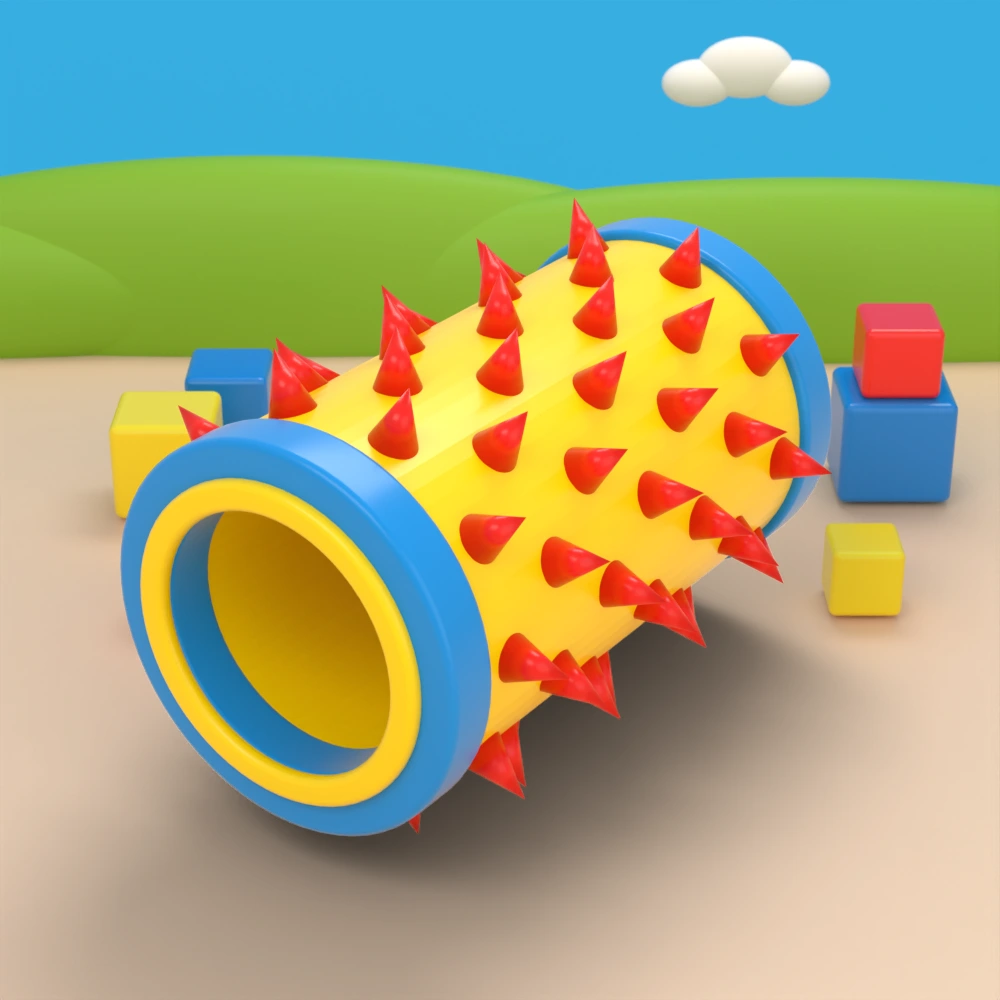
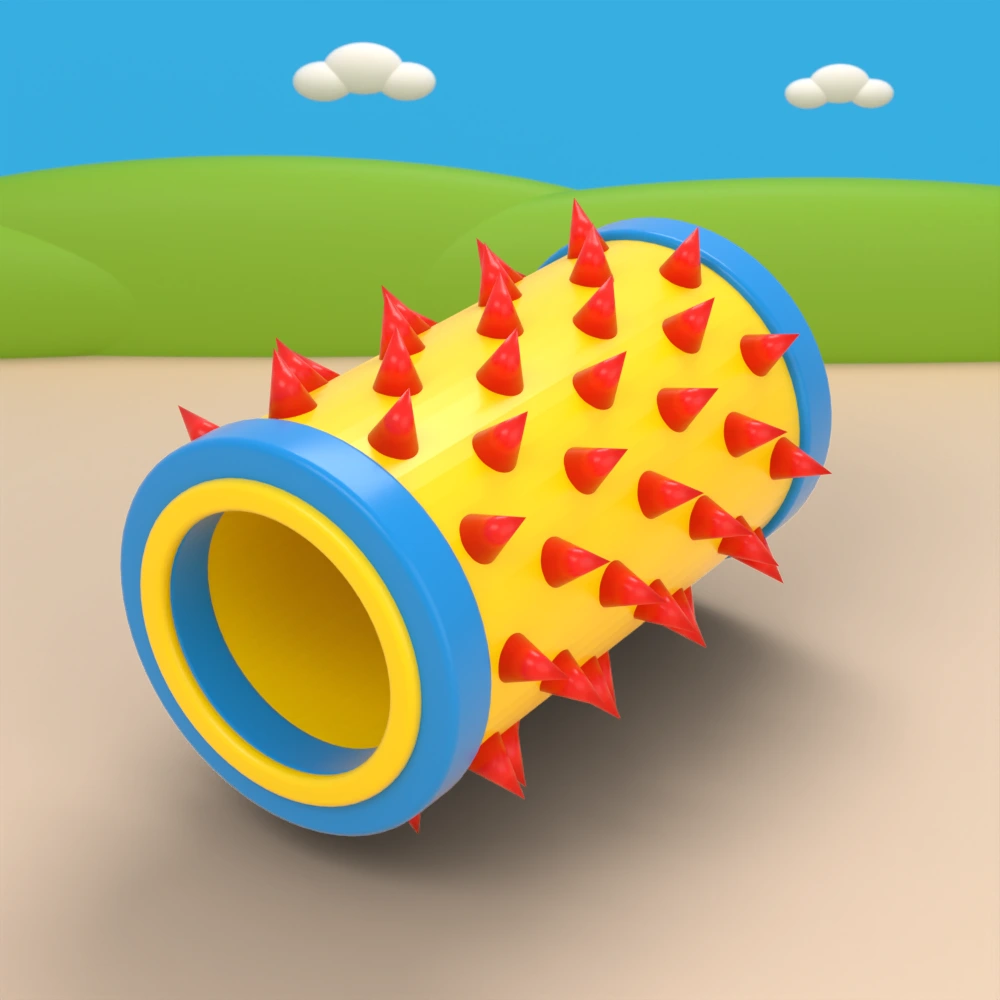
Simplify gallery scenery and refine page typography

diff --git a/src/style.css b/src/style.css
@@ -3,15 +3,15 @@
 :root{font-family:'Albert Sans Variable',Arial,sans-serif;color:oklch(28% .04 25);background:oklch(97% .018 88);font-synthesis:none;--red:#b30100;--dark-red:#4e0302;--paper:#f7f4e9;--yellow:#ffee38;--blue:#005cb3;--ink:#3d2220;--line:color-mix(in srgb,var(--dark-red) 18%,transparent)}
 *{box-sizing:border-box}html{scroll-behavior:smooth;scroll-padding-top:24px}body{margin:0}button,a,input{-webkit-tap-highlight-color:transparent}button,input{font:inherit}button,a{touch-action:manipulation}button{cursor:pointer}a{color:inherit;text-decoration:none}button{color:inherit}button:focus-visible,a:focus-visible,input:focus-visible,summary:focus-visible{outline:3px solid var(--blue);outline-offset:6px}::selection{background:var(--yellow);color:var(--dark-red)}img{max-width:100%;display:block}.sr-only{position:absolute;width:1px;height:1px;padding:0;margin:-1px;overflow:hidden;clip:rect(0,0,0,0);white-space:nowrap;border:0}.skip-link{position:fixed;left:24px;top:16px;z-index:100;background:var(--red);color:var(--paper);padding:14px 20px;transform:translateY(-150%)}.skip-link:focus{transform:translateY(0)}
 .site-header{display:grid;grid-template-columns:90px 1fr auto;align-items:center;gap:30px;margin:0 3.3vw;padding:26px 0 20px;border-bottom:1px solid var(--line)}.brand{display:block;width:78px;height:78px}.brand img,.footer-brand img{filter:invert(10%) sepia(99%) saturate(4886%) hue-rotate(360deg) brightness(77%) contrast(119%);width:100%;height:100%;object-fit:contain}.header-note{font-size:14px;line-height:1.2;letter-spacing:-.02em}.site-header nav{display:flex;gap:42px;font-size:15px;letter-spacing:-.025em}.site-header nav a{padding:8px 0;text-decoration-thickness:1px;text-underline-offset:5px}.site-header nav a:hover{text-decoration:underline}
-.hero{padding:0 3.3vw}.hero-heading{display:flex;align-items:flex-end;justify-content:space-between;gap:40px;padding:46px 0 45px}.hero h1{font-size:clamp(68px,8.6vw,160px);font-weight:650;letter-spacing:-.075em;line-height:.86;color:var(--red);margin:0}.hero h1 span{display:block}.hero h1 span:last-child{padding-left:15.5vw}.hero-aside{display:flex;align-items:flex-end;gap:60px;padding-bottom:6px;flex-shrink:0}.hero-aside p{font-size:17px;line-height:1.32;letter-spacing:-.025em;margin:0 0 2px}.explore-link{min-height:44px;display:flex;align-items:center;font-size:15px;text-decoration:underline;text-decoration-thickness:1px;text-underline-offset:6px;transition:color .2s}.explore-link:hover{color:var(--red)}.hero-figure{margin:0}.hero-image-wrap{overflow:hidden;background:#51b8dd;aspect-ratio:1672/941}.hero-image{width:100%;height:100%;object-fit:cover;transform-origin:50% 50%}.hero figcaption{display:flex;justify-content:space-between;gap:20px;padding:15px 0 20px;font-size:12px;letter-spacing:.015em}.hero figcaption>span:first-child{font-size:10px;font-weight:700;letter-spacing:.07em}.caption-end{text-align:right}
-.collection{padding:125px 3.3vw 100px}.section-intro{display:grid;grid-template-columns:1fr 2fr;gap:30px;align-items:start;margin-bottom:66px}.section-number{font-size:11px;letter-spacing:.07em;padding-top:11px;font-weight:600}.section-intro>div{display:grid;grid-template-columns:1.2fr 1fr;gap:48px}.section-intro h2{font-size:clamp(36px,4.4vw,76px);line-height:.98;letter-spacing:-.06em;font-weight:550;margin:0}.section-intro p{font-size:19px;line-height:1.4;letter-spacing:-.03em;max-width:300px;margin:7px 0 0}.collection-toolbar{border-bottom:1px solid var(--line);display:flex;justify-content:space-between;align-items:center;gap:20px;padding-bottom:15px}.filters{display:flex;gap:30px}.filter{background:none;border:0;padding:8px 0;font-size:14px;line-height:1.3}.filter{color:color-mix(in srgb,var(--ink) 58%,transparent);position:relative}.filter::after{content:'';height:2px;background:var(--red);position:absolute;bottom:-16px;left:0;right:0;transform:scaleX(0);transform-origin:left;transition:transform .2s}.filter.active{color:var(--red)}.filter.active::after{transform:scaleX(1)}.filter span{font-size:10px;vertical-align:super;padding-left:4px}.view-hint{display:flex;gap:10px;margin:15px 0 30px;font-size:12px;color:color-mix(in srgb,var(--ink) 72%,transparent)}.view-hint>span{font-size:16px;line-height:14px}.product-grid{display:grid;grid-template-columns:repeat(3,minmax(0,1fr));gap:50px 22px}.product-card{min-width:0}.product-card[hidden]{display:none}.object-stage{position:relative;aspect-ratio:1;background:#eeeadd;overflow:hidden;isolation:isolate}.product-card:nth-child(6n+2) .object-stage{background:#e4e9e4}.product-card:nth-child(6n+3) .object-stage{background:#efe0d6}.product-card:nth-child(6n+4) .object-stage{background:#e7e5e9}.product-card:nth-child(6n+5) .object-stage{background:#ece7d0}.product-card:nth-child(6n+6) .object-stage{background:#e2e7ec}.object-stage img{position:absolute;inset:0;width:100%;height:100%;object-fit:cover;opacity:0;pointer-events:none}.object-stage img.is-active{opacity:1}.piece-number{position:absolute;top:16px;left:17px;font-size:10px;letter-spacing:.04em;color:color-mix(in srgb,var(--ink) 60%,transparent);z-index:3}.object-turn-label{position:absolute;bottom:16px;right:17px;font-size:10px;display:flex;align-items:center;gap:6px;opacity:0;transform:translateY(3px);transition:opacity .2s,transform .2s;pointer-events:none;z-index:3}.object-stage:hover .object-turn-label,.product-card:focus-within .object-turn-label{opacity:.8;transform:none}.piece-details{border-bottom:1px solid var(--line)}.piece-details summary{display:flex;align-items:center;justify-content:space-between;gap:12px;cursor:pointer;list-style:none;padding:2px 0 14px}.piece-details summary::-webkit-details-marker{display:none}.piece-title{font-size:20px;font-weight:500;letter-spacing:-.04em}.piece-category{display:block;font-size:11px;font-weight:400;letter-spacing:0;margin-top:5px;color:color-mix(in srgb,var(--ink) 65%,transparent)}.detail-plus{font-size:24px;font-weight:300;transition:transform .2s}.piece-details[open] .detail-plus{transform:rotate(45deg)}.piece-description{padding:3px 0 20px;font-size:15px;line-height:1.45;letter-spacing:-.01em;max-width:35ch}.piece-description p{margin:0 0 10px}.piece-description .piece-medium{font-size:11px;color:color-mix(in srgb,var(--ink) 65%,transparent);margin-bottom:0}.collection-end{display:flex;align-items:center;justify-content:space-between;margin-top:60px;padding:24px 0 0;font-size:16px;letter-spacing:-.025em}.collection-error{padding:50px 0}.collection-error button,.collection-error a{color:var(--red);background:none;border:0;text-decoration:underline;padding:0}
-.idea{background:var(--blue);color:var(--paper);padding:35px 3.3vw 85px;overflow:hidden}.idea-top{display:flex;justify-content:space-between;font-size:11px;letter-spacing:.03em}.idea-top>span:first-child{letter-spacing:.07em}.idea-title-wrap{position:relative;padding-top:75px}.idea h2{font-size:clamp(60px,9.3vw,165px);line-height:.9;letter-spacing:-.07em;font-weight:550;margin:0;color:var(--yellow)}.idea h2 span{display:block;margin-left:17vw}.idea-spark{position:absolute;right:3.5vw;top:65px;font-size:clamp(90px,15vw,260px);line-height:1;color:var(--yellow)}.idea-bottom{display:grid;grid-template-columns:1fr 1fr;gap:12vw;padding-top:90px}.idea-question{font-size:clamp(42px,5.3vw,90px);line-height:.98;letter-spacing:-.06em;margin:0;font-weight:500}.idea-copy{max-width:540px;font-size:20px;line-height:1.4;letter-spacing:-.025em}.idea-copy p{margin:0 0 22px}.idea-copy .idea-final{margin-top:35px;color:var(--yellow)}.adult-note{display:block;font-size:11px;letter-spacing:0;margin-top:40px;opacity:.8}
-.inquiries{padding:95px 3.3vw 105px;background:var(--yellow);color:var(--dark-red)}.inquiry-top{display:flex;justify-content:space-between;align-items:start}.inquiry-top>span{font-size:11px;letter-spacing:.07em}.inquiry-top p{font-size:15px;line-height:1.35;letter-spacing:-.02em;margin:0}.inquiry-link{display:flex;align-items:center;justify-content:space-between;margin:65px 0 28px;gap:20px}.inquiry-link h2{font-size:clamp(60px,8.5vw,145px);font-weight:550;letter-spacing:-.07em;line-height:.9;margin:0}.inquiry-link:hover h2{text-decoration:underline;text-decoration-thickness:.035em;text-underline-offset:.09em}.email-link{display:inline-flex;gap:40px;padding-bottom:8px;border-bottom:1px solid var(--dark-red);font-size:clamp(16px,2.1vw,31px);letter-spacing:-.04em}
-footer{display:grid;grid-template-columns:1fr 1fr 1fr;align-items:end;gap:30px;padding:55px 3.3vw 32px}.footer-brand{width:122px;height:122px}footer>p{font-size:26px;line-height:1.12;letter-spacing:-.04em;margin:0 0 3px}.footer-meta{display:flex;justify-content:space-between;gap:30px;font-size:11px;align-self:end}.footer-meta a{white-space:nowrap}.footer-meta a:hover{text-decoration:underline}
+.hero{padding:0 3.3vw}.hero-heading{display:flex;align-items:flex-end;justify-content:space-between;gap:40px;padding:46px 0 45px}.hero h1{font-size:clamp(68px,8.6vw,160px);font-weight:650;letter-spacing:-.075em;line-height:.86;color:var(--blue);margin:0}.hero h1 span{display:block}.hero h1 span:last-child{padding-left:15.5vw}.hero-aside{padding-bottom:6px;flex-shrink:0}.hero-aside p{font-size:17px;line-height:1.32;letter-spacing:-.025em;margin:0 0 2px}.hero-figure{margin:0}.hero-image-wrap{overflow:hidden;background:#51b8dd;aspect-ratio:1672/941}.hero-image{width:100%;height:100%;object-fit:cover;transform-origin:50% 50%}.hero figcaption{display:flex;justify-content:space-between;gap:20px;padding:15px 0 20px;font-size:12px;letter-spacing:.015em}.hero figcaption>span:first-child{font-size:10px;font-weight:700;letter-spacing:.07em}.caption-end{text-align:right}
+.collection{padding:125px 3.3vw 100px}.section-intro{display:grid;grid-template-columns:1fr 2fr;gap:30px;align-items:start;margin-bottom:66px}.section-number{font-size:11px;letter-spacing:.07em;padding-top:11px;font-weight:600}.section-intro>div{display:grid;grid-template-columns:1.2fr 1fr;gap:48px}.section-intro h2{font-size:clamp(36px,4.4vw,76px);line-height:.98;letter-spacing:-.06em;font-weight:550;margin:0}.section-intro p{font-size:19px;line-height:1.4;letter-spacing:-.03em;max-width:300px;margin:7px 0 0}.collection-toolbar{border-bottom:1px solid var(--line);display:flex;justify-content:space-between;align-items:center;gap:20px;padding-bottom:15px}.filters{display:flex;gap:30px}.filter{background:none;border:0;padding:8px 0;font-size:14px;line-height:1.3}.filter{color:color-mix(in srgb,var(--ink) 58%,transparent);position:relative}.filter::after{content:'';height:2px;background:var(--red);position:absolute;bottom:-16px;left:0;right:0;transform:scaleX(0);transform-origin:left;transition:transform .2s}.filter.active{color:var(--red)}.filter.active::after{transform:scaleX(1)}.filter span{font-size:10px;vertical-align:super;padding-left:4px}.view-hint{display:flex;gap:10px;margin:15px 0 30px;font-size:12px;color:color-mix(in srgb,var(--ink) 72%,transparent)}.view-hint>span{font-size:16px;line-height:14px}.product-grid{display:grid;grid-template-columns:repeat(3,minmax(0,1fr));gap:50px 22px}.product-card{min-width:0}.product-card[hidden]{display:none}.object-stage{position:relative;aspect-ratio:1;background:#eeeadd;overflow:hidden;isolation:isolate}.product-card:nth-child(6n+2) .object-stage{background:#e4e9e4}.product-card:nth-child(6n+3) .object-stage{background:#efe0d6}.product-card:nth-child(6n+4) .object-stage{background:#e7e5e9}.product-card:nth-child(6n+5) .object-stage{background:#ece7d0}.product-card:nth-child(6n+6) .object-stage{background:#e2e7ec}.object-stage img{position:absolute;inset:0;width:100%;height:100%;object-fit:cover;opacity:0;pointer-events:none}.object-stage img.is-active{opacity:1}.piece-title{font-size:20px;font-weight:500;letter-spacing:-.04em;margin:15px 0 4px}.collection-error{padding:50px 0}.collection-error button,.collection-error a{color:var(--red);background:none;border:0;text-decoration:underline;padding:0}
+.idea{background:var(--blue);color:var(--paper);padding:35px 3.3vw 85px;overflow:hidden}.idea-title-wrap{position:relative;padding-top:75px}.idea h2{font-size:clamp(60px,9.3vw,165px);line-height:.9;letter-spacing:-.07em;font-weight:550;margin:0;color:var(--yellow)}.idea h2 span{display:block;margin-left:17vw}.idea-spark{position:absolute;right:3.5vw;top:65px;font-size:clamp(90px,15vw,260px);line-height:1;color:var(--yellow)}.idea-bottom{display:grid;grid-template-columns:1fr 1fr;gap:12vw;padding-top:90px}.idea-question{font-size:clamp(42px,5.3vw,90px);line-height:.98;letter-spacing:-.06em;margin:0;font-weight:500}.idea-copy{max-width:540px;font-size:20px;line-height:1.4;letter-spacing:-.025em}.idea-copy p{margin:0 0 22px}.idea-copy .idea-final{margin-top:35px;color:var(--yellow)}.adult-note{display:block;font-size:inherit;letter-spacing:0;margin-top:40px;opacity:.8}
+.inquiries{margin:clamp(28px,3.3vw,64px) 3.3vw;padding:clamp(44px,6.5vw,105px) clamp(28px,4.7vw,90px);border-radius:32px;background:var(--yellow);color:var(--dark-red)}.inquiry-link{display:block;margin:0 0 40px}.inquiry-link h2{font-size:clamp(35px,6.7vw,112px);font-weight:550;letter-spacing:-.06em;line-height:1;margin:0}.inquiry-link:hover h2{text-decoration:underline;text-decoration-thickness:.035em;text-underline-offset:.09em}.email-link{display:inline-flex;gap:40px;padding-bottom:8px;border-bottom:1px solid var(--dark-red);font-size:clamp(16px,2.1vw,31px);letter-spacing:-.04em}
+footer{display:grid;grid-template-columns:1fr 1fr 1fr;align-items:end;gap:30px;padding:55px 3.3vw 32px}.footer-brand{width:122px;height:122px}footer>p{font-size:26px;line-height:1.12;letter-spacing:-.04em;margin:0 0 3px}.footer-meta{display:flex;justify-content:space-between;gap:30px;font-size:11px;align-self:end}
 @media(min-width:1900px){body{max-width:2000px;margin:auto}.hero h1 span:last-child{padding-left:300px}.idea h2 span{margin-left:325px}}
-@media(max-width:1150px){.hero h1{font-size:9.6vw}.hero h1 span:last-child{padding-left:7vw}.hero-aside{gap:25px}.hero-aside p{font-size:14px}.section-intro{grid-template-columns:1fr 2.5fr}.section-intro>div{gap:30px}.section-intro p{font-size:16px}.site-header nav{gap:26px}.product-grid{gap:42px 18px}.footer-meta{flex-direction:column;gap:18px}}
-@media(max-width:760px){.site-header{grid-template-columns:64px 1fr;margin:0 5vw;padding-top:20px;padding-bottom:18px;gap:15px}.brand{width:60px;height:60px}.header-note{display:none}.site-header nav{gap:22px;justify-content:flex-end;font-size:12px}.hero{padding:0 5vw}.hero-heading{padding:42px 0 28px;gap:20px}.hero h1{font-size:12vw;line-height:.9}.hero h1 span:last-child{padding-left:6vw}.hero-aside p{display:none}.explore-link{font-size:13px}.hero-figure .hero-image-wrap{aspect-ratio:1.34}.hero-image{object-position:50% 50%}.hero figcaption{font-size:10px;gap:10px;padding-top:12px}.hero figcaption>span:first-child{font-size:8px}.caption-end{display:none}.collection{padding:75px 5vw 65px}.section-intro{display:block;margin-bottom:38px}.section-number{display:block;padding:0 0 24px;font-size:10px}.section-intro>div{grid-template-columns:1.15fr 1fr;gap:30px}.section-intro h2{font-size:6.3vw}.section-intro p{font-size:14px;line-height:1.35;margin:0}.filters{gap:22px}.filter{font-size:12px}.view-hint{font-size:10px;margin-bottom:24px;line-height:1.35;align-items:center}.product-grid{grid-template-columns:repeat(2,minmax(0,1fr));gap:32px 14px}.piece-number{top:12px;left:12px;font-size:9px}.object-turn-label{display:none}.piece-title{font-size:18px}.piece-category{font-size:10px}.piece-details summary{padding-bottom:12px}.piece-description{font-size:13px}.collection-end{margin-top:40px;font-size:12px;gap:20px}.idea{padding:25px 5vw 55px}.idea-top{font-size:9px}.idea-top>span:last-child{max-width:110px;text-align:right}.idea-title-wrap{padding-top:56px}.idea h2{font-size:11vw}.idea h2 span{margin-left:5vw}.idea-spark{right:0;top:44px;font-size:18vw}.idea-bottom{padding-top:55px;grid-template-columns:.8fr 1.3fr;gap:10vw}.idea-question{font-size:7vw}.idea-copy{font-size:15px}.idea-copy p{margin-bottom:17px}.idea-copy .idea-final{margin-top:25px}.adult-note{font-size:10px;margin-top:28px}.inquiries{padding:55px 5vw 60px}.inquiry-top>span{font-size:10px}.inquiry-top p{font-size:12px}.inquiry-link{margin-top:45px}.inquiry-link h2{font-size:11.2vw}.email-link{font-size:20px;gap:20px}footer{padding:35px 5vw 26px;grid-template-columns:1fr 1fr;gap:25px}.footer-brand{width:90px;height:90px}footer>p{font-size:21px}.footer-meta{grid-column:1/-1;flex-direction:row;font-size:10px;padding-top:10px}}
-@media(max-width:430px){.site-header nav{gap:16px;font-size:11px}.hero-heading{padding-top:34px}.hero h1{font-size:12.3vw}.explore-link{font-size:12px}.hero-aside{padding-bottom:1px}.hero-image-wrap{margin-left:-5vw;margin-right:-5vw;aspect-ratio:1.15!important}.section-intro>div{display:block}.section-intro h2{font-size:10vw}.section-intro p{font-size:15px;max-width:29ch;margin-top:24px}.collection-toolbar{align-items:center;gap:8px}.filters{gap:14px}.filter{font-size:11px}.filter::after{bottom:-16px}.product-grid{grid-template-columns:1fr;gap:33px}.object-stage{aspect-ratio:1}.piece-title{font-size:22px}.piece-category{font-size:11px}.piece-description{font-size:15px}.idea-bottom{display:block}.idea-question{font-size:11vw;margin-bottom:35px}.idea-copy{font-size:17px;max-width:32ch}.idea h2{font-size:11.4vw}.idea-spark{top:48px;right:-1vw;font-size:15vw}.inquiry-top p{font-size:11px}.email-link{font-size:18px}.footer-brand{width:80px;height:80px}footer>p{font-size:19px}}
+@media(max-width:1150px){.hero h1{font-size:9.6vw}.hero h1 span:last-child{padding-left:7vw}.hero-aside p{font-size:14px}.section-intro{grid-template-columns:1fr 2.5fr}.section-intro>div{gap:30px}.section-intro p{font-size:16px}.site-header nav{gap:26px}.product-grid{gap:42px 18px}.footer-meta{flex-direction:column;gap:18px}}
+@media(max-width:760px){.site-header{grid-template-columns:64px 1fr;margin:0 5vw;padding-top:20px;padding-bottom:18px;gap:15px}.brand{width:60px;height:60px}.header-note{display:none}.site-header nav{gap:22px;justify-content:flex-end;font-size:12px}.hero{padding:0 5vw}.hero-heading{padding:42px 0 28px;gap:20px}.hero h1{font-size:12vw;line-height:.9}.hero h1 span:last-child{padding-left:6vw}.hero-aside{display:none}.hero-figure .hero-image-wrap{aspect-ratio:1.34}.hero-image{object-position:50% 50%}.hero figcaption{font-size:10px;gap:10px;padding-top:12px}.hero figcaption>span:first-child{font-size:8px}.caption-end{display:none}.collection{padding:75px 5vw 65px}.section-intro{display:block;margin-bottom:38px}.section-number{display:block;padding:0 0 24px;font-size:10px}.section-intro>div{grid-template-columns:1.15fr 1fr;gap:30px}.section-intro h2{font-size:6.3vw}.section-intro p{font-size:14px;line-height:1.35;margin:0}.filters{gap:22px}.filter{font-size:12px}.view-hint{font-size:10px;margin-bottom:24px;line-height:1.35;align-items:center}.product-grid{grid-template-columns:repeat(2,minmax(0,1fr));gap:32px 14px}.piece-title{font-size:18px}.idea{padding:25px 5vw 55px}.idea-title-wrap{padding-top:56px}.idea h2{font-size:11vw}.idea h2 span{margin-left:5vw}.idea-spark{right:0;top:44px;font-size:18vw}.idea-bottom{padding-top:55px;grid-template-columns:.8fr 1.3fr;gap:10vw}.idea-question{font-size:7vw}.idea-copy{font-size:15px}.idea-copy p{margin-bottom:17px}.idea-copy .idea-final{margin-top:25px}.adult-note{margin-top:28px}.inquiries{margin:5vw;padding:44px 24px;border-radius:20px}.inquiry-link{margin:0 0 28px}.contact-break{display:none}.email-link{font-size:20px;gap:20px}footer{padding:35px 5vw 26px;grid-template-columns:1fr 1fr;gap:25px}.footer-brand{width:90px;height:90px}footer>p{font-size:21px}.footer-meta{grid-column:1/-1;flex-direction:row;font-size:10px;padding-top:10px}}
+@media(max-width:430px){.site-header nav{gap:16px;font-size:11px}.hero-heading{padding-top:34px}.hero h1{font-size:12.3vw}.hero-image-wrap{margin-left:-5vw;margin-right:-5vw;aspect-ratio:1.15!important}.section-intro>div{display:block}.section-intro h2{font-size:10vw}.section-intro p{font-size:15px;max-width:29ch;margin-top:24px}.collection-toolbar{align-items:center;gap:8px}.filters{gap:14px}.filter{font-size:11px}.filter::after{bottom:-16px}.product-grid{grid-template-columns:1fr;gap:33px}.object-stage{aspect-ratio:1}.piece-title{font-size:22px}.idea-bottom{display:block}.idea-question{font-size:11vw;margin-bottom:35px}.idea-copy{font-size:17px;max-width:32ch}.idea h2{font-size:11.4vw}.idea-spark{top:48px;right:-1vw;font-size:15vw}.email-link{font-size:18px}.footer-brand{width:80px;height:80px}footer>p{font-size:19px}}
 @media(prefers-reduced-motion:reduce){html{scroll-behavior:auto}*,*::before,*::after{animation-duration:.01ms!important;animation-iteration-count:1!important;transition-duration:.01ms!important}.hero-image{transform:none!important}}
 
 /* One shared WebGL renderer paints these local canvases over a fixed plate. */
@@ -22,15 +22,11 @@ footer{display:grid;grid-template-columns:1fr 1fr 1fr;align-items:end;gap:30px;p
 .object-stage.is-live .object-poster{opacity:0}
 .scene-canvas{position:absolute;inset:0;width:100%;height:100%;pointer-events:none;z-index:2;opacity:0}
 .object-stage.is-live .scene-canvas{opacity:1}
-.viewer-state{position:absolute;right:15px;top:14px;z-index:3;font-size:9px;background:color-mix(in srgb,var(--paper) 86%,transparent);padding:5px 7px;line-height:1.1;pointer-events:none}
 
 .stl-download{display:flex;justify-content:space-between;align-items:center;min-height:44px;font-size:12px;color:var(--red)}
 .stl-download>span{font-size:10px;color:color-mix(in srgb,var(--ink) 60%,transparent)}
 .stl-download:hover{text-decoration:underline;text-underline-offset:3px}
 .retry-3d{background:none;border:0;color:var(--red);text-decoration:underline;text-underline-offset:3px;font-size:12px;padding:8px 0;min-height:44px}
 .retry-3d[hidden]{display:none}
-@media(max-width:760px){.viewer-state{right:10px;top:10px;font-size:8px;padding:4px 6px}}
 
 .idea-spark svg{display:block}
-
-.piece-details summary{padding-top:15px}

diff --git a/index.html b/index.html
@@ -34,7 +34,7 @@
       <section class="hero" aria-labelledby="hero-title">
         <div class="hero-heading">
           <h1 id="hero-title"><span>Go on.</span><span>Play a little.</span></h1>
-          <div class="hero-aside"><p>A familiar feeling.<br />An unfamiliar invitation.</p><a class="explore-link" href="#collection" aria-label="Explore the collection">Explore</a></div>
+          <div class="hero-aside"><p>Torture devices.<br />For the young at heart.</p></div>
         </div>
         <figure class="hero-figure">
           <div class="hero-image-wrap"><img class="hero-image" src="/assets/hero.webp" alt="A red, yellow, and blue Poor Little Thing rope saw in a brightly colored world of stacking rings, building blocks, and make-believe." width="1672" height="941" fetchpriority="high" /></div>
@@ -44,24 +44,22 @@
 
       <section class="collection" id="collection" aria-labelledby="collection-title">
         <div class="section-intro"><span class="section-number">01 / THE COLLECTION</span><div><h2 id="collection-title">Looks familiar.<br />Feels different.</h2><p>Primary colors. Unreasonable shapes. A little tension between what you remember and what you imagine.</p></div></div>
-        <div class="collection-toolbar"><div class="filters" role="group" aria-label="Filter collection"><button class="filter active" type="button" data-filter="All" aria-pressed="true">All pieces <span id="total-count"></span></button><button class="filter" type="button" data-filter="Objects" aria-pressed="false">Objects</button><button class="filter" type="button" data-filter="Wearables" aria-pressed="false">Wearables</button></div></div>
+        <div class="collection-toolbar"><div class="filters" role="group" aria-label="Filter collection"><button class="filter active" type="button" data-filter="All" aria-pressed="true">All pieces <span id="total-count"></span></button><button class="filter" type="button" data-filter="Toys" aria-pressed="false">Toys</button><button class="filter" type="button" data-filter="Apparel" aria-pressed="false">Apparel</button></div></div>
         <p class="view-hint" id="viewer-help">Move your mouse across a piece to turn it. On touch, swipe sideways.</p>
         <p class="sr-only" id="viewer-keyboard-help">Use Left and Right to turn. Home shows the leftmost view, End shows the rightmost view, and 0 resets the piece.</p>
         <p class="sr-only" role="status" id="collection-status" aria-live="polite"></p>
         <div class="product-grid" id="product-grid" aria-busy="true"></div>
         <p class="collection-error" id="collection-error" hidden>The collection couldn’t load. <button id="retry-collection" type="button">Try again</button>, or <a href="mailto:inquiry@poorlittlething.com">say hello</a>.</p>
         <noscript><p>Turn on JavaScript to explore the rotating collection. You can still <a href="mailto:inquiry@poorlittlething.com">get in touch about the work</a>.</p></noscript>
-        <div class="collection-end"><span>Look closer. Turn it over. Make something of it.</span></div>
       </section>
 
       <section class="idea" id="idea" aria-labelledby="idea-title">
-        <div class="idea-top"><span>02 / THE IDEA</span><span>An invitation to make-believe.</span></div>
         <div class="idea-title-wrap"><h2 id="idea-title">The world is<br /><span class="idea-shift">make-believe.</span></h2><span class="idea-spark" aria-hidden="true"><svg viewBox="0 0 100 100" width="1em" height="1em" fill="currentColor" xmlns="http://www.w3.org/2000/svg"><ellipse cx="50" cy="25" rx="11" ry="23"/><ellipse cx="50" cy="25" rx="11" ry="23" transform="rotate(45 50 50)"/><ellipse cx="50" cy="25" rx="11" ry="23" transform="rotate(90 50 50)"/><ellipse cx="50" cy="25" rx="11" ry="23" transform="rotate(135 50 50)"/><ellipse cx="50" cy="25" rx="11" ry="23" transform="rotate(180 50 50)"/><ellipse cx="50" cy="25" rx="11" ry="23" transform="rotate(225 50 50)"/><ellipse cx="50" cy="25" rx="11" ry="23" transform="rotate(270 50 50)"/><ellipse cx="50" cy="25" rx="11" ry="23" transform="rotate(315 50 50)"/><circle cx="50" cy="50" r="15" fill="var(--blue)"/></svg></span></div>
         <div class="idea-bottom"><p class="idea-question">Why stop<br />playing?</p><div class="idea-copy"><p>Remember when a few bright shapes could become anything? A castle. A tool. An entirely different world.</p><p>Poor Little Thing borrows that language of childhood play and gives it to the adult imagination. Familiar colors become objects of curiosity, tension, and desire.</p><p>Kink is make-believe, too. A role, a ritual, a world we choose together. These pieces explore the space where playfulness meets pain, and an ordinary object becomes something else entirely.</p><p class="idea-final">Cut loose. Be curious. Play a little.</p><span class="adult-note">Art objects for adults. Play begins with consent.</span></div></div>
       </section>
 
-      <section class="inquiries" id="inquiries" aria-labelledby="inquiries-title"><div class="inquiry-top"><span>03 / SAY HELLO</span><p>For exhibitions, collaborations,<br />and curious conversations.</p></div><a class="inquiry-link" href="mailto:inquiry@poorlittlething.com"><h2 id="inquiries-title">Something<br />on your mind?</h2></a><a class="email-link" href="mailto:inquiry@poorlittlething.com">inquiry@poorlittlething.com</a></section>
+      <section class="inquiries" id="inquiries" aria-labelledby="inquiries-title"><a class="inquiry-link" href="mailto:inquiry@poorlittlething.com"><h2 id="inquiries-title">For exhibitions,<br class="contact-break" /> collaborations, and<br class="contact-break" /> curious conversations.</h2></a><a class="email-link" href="mailto:inquiry@poorlittlething.com">inquiry@poorlittlething.com</a></section>
     </main>
-    <footer><a class="footer-brand" href="#top" aria-label="Poor Little Thing, back to top"><img src="/assets/stacked-logo.svg" alt="Poor Little Thing" width="122" height="122" /></a><p>A little imagination<br />goes a long way.</p><div class="footer-meta"><span>© <span id="year">2026</span> Poor Little Thing</span><a href="#top">Back to top</a></div></footer>
+    <footer><a class="footer-brand" href="#top" aria-label="Poor Little Thing, back to top"><img src="/assets/stacked-logo.svg" alt="Poor Little Thing" width="122" height="122" /></a><p>A little imagination<br />goes a long way.</p><div class="footer-meta"><span>© <span id="year">2026</span> Poor Little Thing</span></div></footer>
   </body>
 </html>

diff --git a/src/main.js b/src/main.js
@@ -10,7 +10,6 @@ let products = [];
 let activeFilter = 'All';
 let controllers = [];
 let intersectionObserver;
-let motionContext;
 let gallery3D;
 let galleryPromise;
 
@@ -26,14 +25,11 @@ function createPiece(product, index) {
     <div class="object-stage" tabindex="0" role="slider" aria-label="Turn ${title}" aria-valuemin="-90" aria-valuemax="90" aria-valuenow="0" aria-valuetext="0 degrees" aria-orientation="horizontal" aria-describedby="viewer-help viewer-keyboard-help viewer-state-${index}">
       <img class="viewer-background" src="${escapeHtml(product.background || '/assets/toy-world.webp')}" alt="" aria-hidden="true" width="1000" height="1000" loading="lazy" />
       <img class="object-poster" src="${escapeHtml(product.poster || product.views?.[0] || '')}" alt="${title}" width="1000" height="1000" loading="lazy" />
-      <span class="piece-number" aria-hidden="true">${String(index + 1).padStart(2, '0')}</span>
-      <span class="viewer-state" id="viewer-state-${index}">Interactive 3D</span>
-      <span class="object-turn-label" aria-hidden="true">MOVE TO TURN</span>
+      <span class="viewer-state sr-only" id="viewer-state-${index}">Interactive 3D</span>
     </div>
     <button class="retry-3d" type="button" hidden>Retry 3D</button>
-    <details class="piece-details"><summary><span class="piece-title">${title}<span class="piece-category">${escapeHtml(product.category)}</span></span><span class="detail-plus" aria-hidden="true">+</span></summary><div class="piece-description"><p>${escapeHtml(product.description)}</p><p class="piece-medium">${escapeHtml(product.material || 'Sculptural object')} · ${escapeHtml(String(product.year || '2026'))}</p></div></details>
+    <h3 class="piece-title">${title}</h3>
     <a class="stl-download" href="${escapeHtml(product.stl)}" download="poor-little-thing-${escapeHtml(product.id)}-assembly-mm.stl" aria-label="Download ${title} assembly STL in millimeters${downloadSize}">Download assembly STL<span>STL · mm${downloadSize}</span></a>`;
-  card.querySelector('details').addEventListener('toggle', () => ScrollTrigger.refresh());
   const controller = gallery3D.add(card, product);
   controllers.push(controller);
   card._pieceController = controller;
@@ -56,7 +52,7 @@ function updateFilter(next) {
     card.hidden = next !== 'All' && card.dataset.category !== next;
     if (!card.hidden) count++;
   });
-  document.querySelector('#collection-status').textContent = `${count} ${next === 'All' ? 'pieces' : next.toLowerCase()} in the collection.`;
+  document.querySelector('#collection-status').textContent = `${count} ${next === 'All' ? 'pieces' : next === 'Apparel' ? 'apparel pieces' : next.toLowerCase()} in the collection.`;
   ScrollTrigger.refresh();
 }
 document.querySelectorAll('.filter').forEach(button => button.addEventListener('click', () => updateFilter(button.dataset.filter)));
@@ -80,7 +76,6 @@ async function loadCollection() {
     intersectionObserver = new IntersectionObserver(entries => entries.forEach(entry => entry.target._pieceController.setVisible(entry.isIntersecting)), { rootMargin: '200px 0px' });
     controllers.forEach(({ card }) => intersectionObserver.observe(card));
     updateFilter(activeFilter);
-    setupProductMotion();
   } catch {
     document.querySelector('#collection-error').hidden = false;
   } finally {
@@ -102,19 +97,6 @@ media.add('(prefers-reduced-motion: no-preference)', () => {
   gsap.to('.idea-spark', { rotation: 150, ease: 'none', scrollTrigger: { trigger: '.idea', start: 'top bottom', end: 'bottom top', scrub: 1 } });
   gsap.from('.inquiry-link h2', { y: 35, opacity: 0, duration: 1, ease: 'power3.out', scrollTrigger: { trigger: '.inquiries', start: 'top 80%', once: true } });
 }, app);
-
-function setupProductMotion() {
-  motionContext?.revert();
-  motionContext = gsap.matchMedia();
-  motionContext.add('(prefers-reduced-motion: no-preference)', () => {
-    const triggers = ScrollTrigger.batch('.product-card', {
-      start: 'top 96%', once: true,
-      onEnter: cards => gsap.fromTo(cards, { y: 25, opacity: 0 }, { y: 0, opacity: 1, stagger: .06, duration: .7, ease: 'power3.out', clearProps: 'transform,opacity' })
-    });
-    return () => triggers.forEach(trigger => trigger.kill());
-  }, grid);
-  ScrollTrigger.refresh();
-}
 
 document.fonts.ready.then(() => ScrollTrigger.refresh());
 loadCollection();

diff --git a/README.md b/README.md
@@ -19,7 +19,7 @@ The production website is generated in `dist/`. The GitHub Actions workflow buil
 
 ## Content
 
-- `public/products.json` contains each piece's title, description, category, colored GLB, assembly STL, and poster image URLs.
+- `public/products.json` contains each piece's title, category, colored GLB, assembly STL, and poster image URLs.
 - `public/assets/models/` holds the interactive colored GLB models.
 - `public/downloads/` holds the complete displayed assembly STL files in millimeters.
 - `public/assets/products/` holds fallback poster images.
